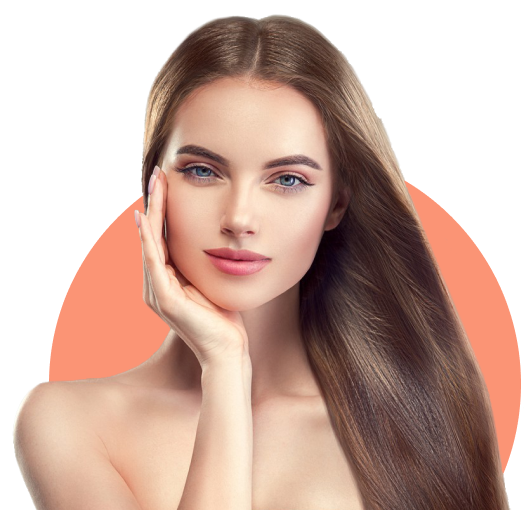
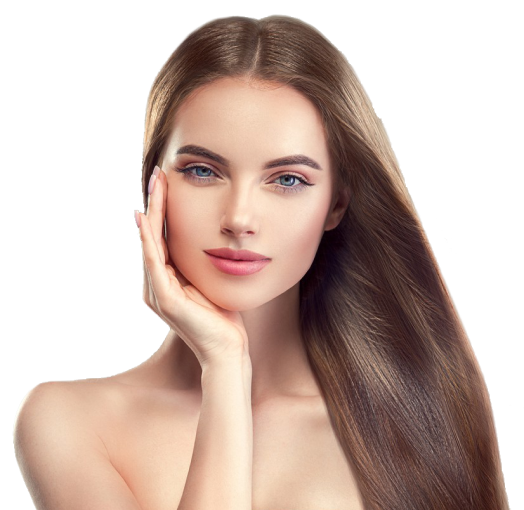
added animation of the ball behind the girl

Changed region(s): [[0.7634, 0.3529, 1.0, 0.9412], [0.0916, 0.3824, 0.3359, 0.7647]]

diff --git a/styles.css b/styles.css
@@ -36,7 +36,6 @@ a:hover {
 .container {
   max-width: 1110px;
   margin: 0 auto;
-  /* border: 4px double black; */
 }
 
 /* navigation-block */
@@ -90,12 +89,10 @@ a:hover {
 /* header-content */
 
 .header-content {
-  /* border: 4px double rgb(184, 61, 61); */
   display: flex;
   align-items: center;
   justify-content: space-between;
   min-height: 525px;
-  position: relative;
 }
 
 .header-main {
@@ -124,36 +121,57 @@ a:hover {
   border-radius: 24px;
   cursor: pointer;
   margin-top: 40px;
+  transition: 1s;
 }
 
 .header-btn:hover {
   opacity: 0.8;
+  transform: scale(1.05);
 }
+
+/* header-image */
 
 .header-image {
-  bottom: 0;
-  right: 80px;
-  /* width: 500px;
-  height: 500px; */
-  /* border: 4px double rgb(61, 63, 184); */
-  position: absolute;
-}
-
-.header-image img {
   width: 524px;
   height: 510px;
+  position: relative;
 }
 
+.imagegroup {
+  position: absolute;
+  margin-left: -50px;
+  margin-top: 7px;
+}
+
+.header-image:hover:before {
+  transform: scale(1.05);
+}
+
+.header-image::before {
+  content: "";
+  background-image: url("./images/header/girlBG.png");
+  background-repeat: no-repeat;
+  width: 472px;
+  height: 400px;
+  position: absolute;
+  margin-top: 120px;
+  transition: 1s;
+}
+
+/* header-icons */
+
 .social-icons {
-  /* border: 4px double rgb(184, 61, 180); */
   display: flex;
   flex-direction: column;
   align-items: center;
   gap: 10px 0;
 }
-.social-icons img {
+.social-icons > img:hover {
   cursor: pointer;
+  transform: scale(1.1);
 }
+
+/* footer */
 
 .page__footer {
   display: flex;
@@ -161,7 +179,7 @@ a:hover {
   align-items: center;
   max-width: 1110px;
   margin: 0 auto;
-  padding: 20px 0;
+  padding: 40px 0;
 }
 
 .footer-desc {

diff --git a/index.html b/index.html
@@ -57,7 +57,7 @@
           </div>
 
           <div class="header-image">
-            <img src="./images/header/girl.png" alt="" />
+            <img class="imagegroup" src="./images/header/girl.png" alt="" />
           </div>
 
           <div class="social-icons">
@@ -95,7 +95,5 @@
         </ul>
       </nav>
     </footer>
-
-    <!-- </div> -->
   </body>
 </html>
